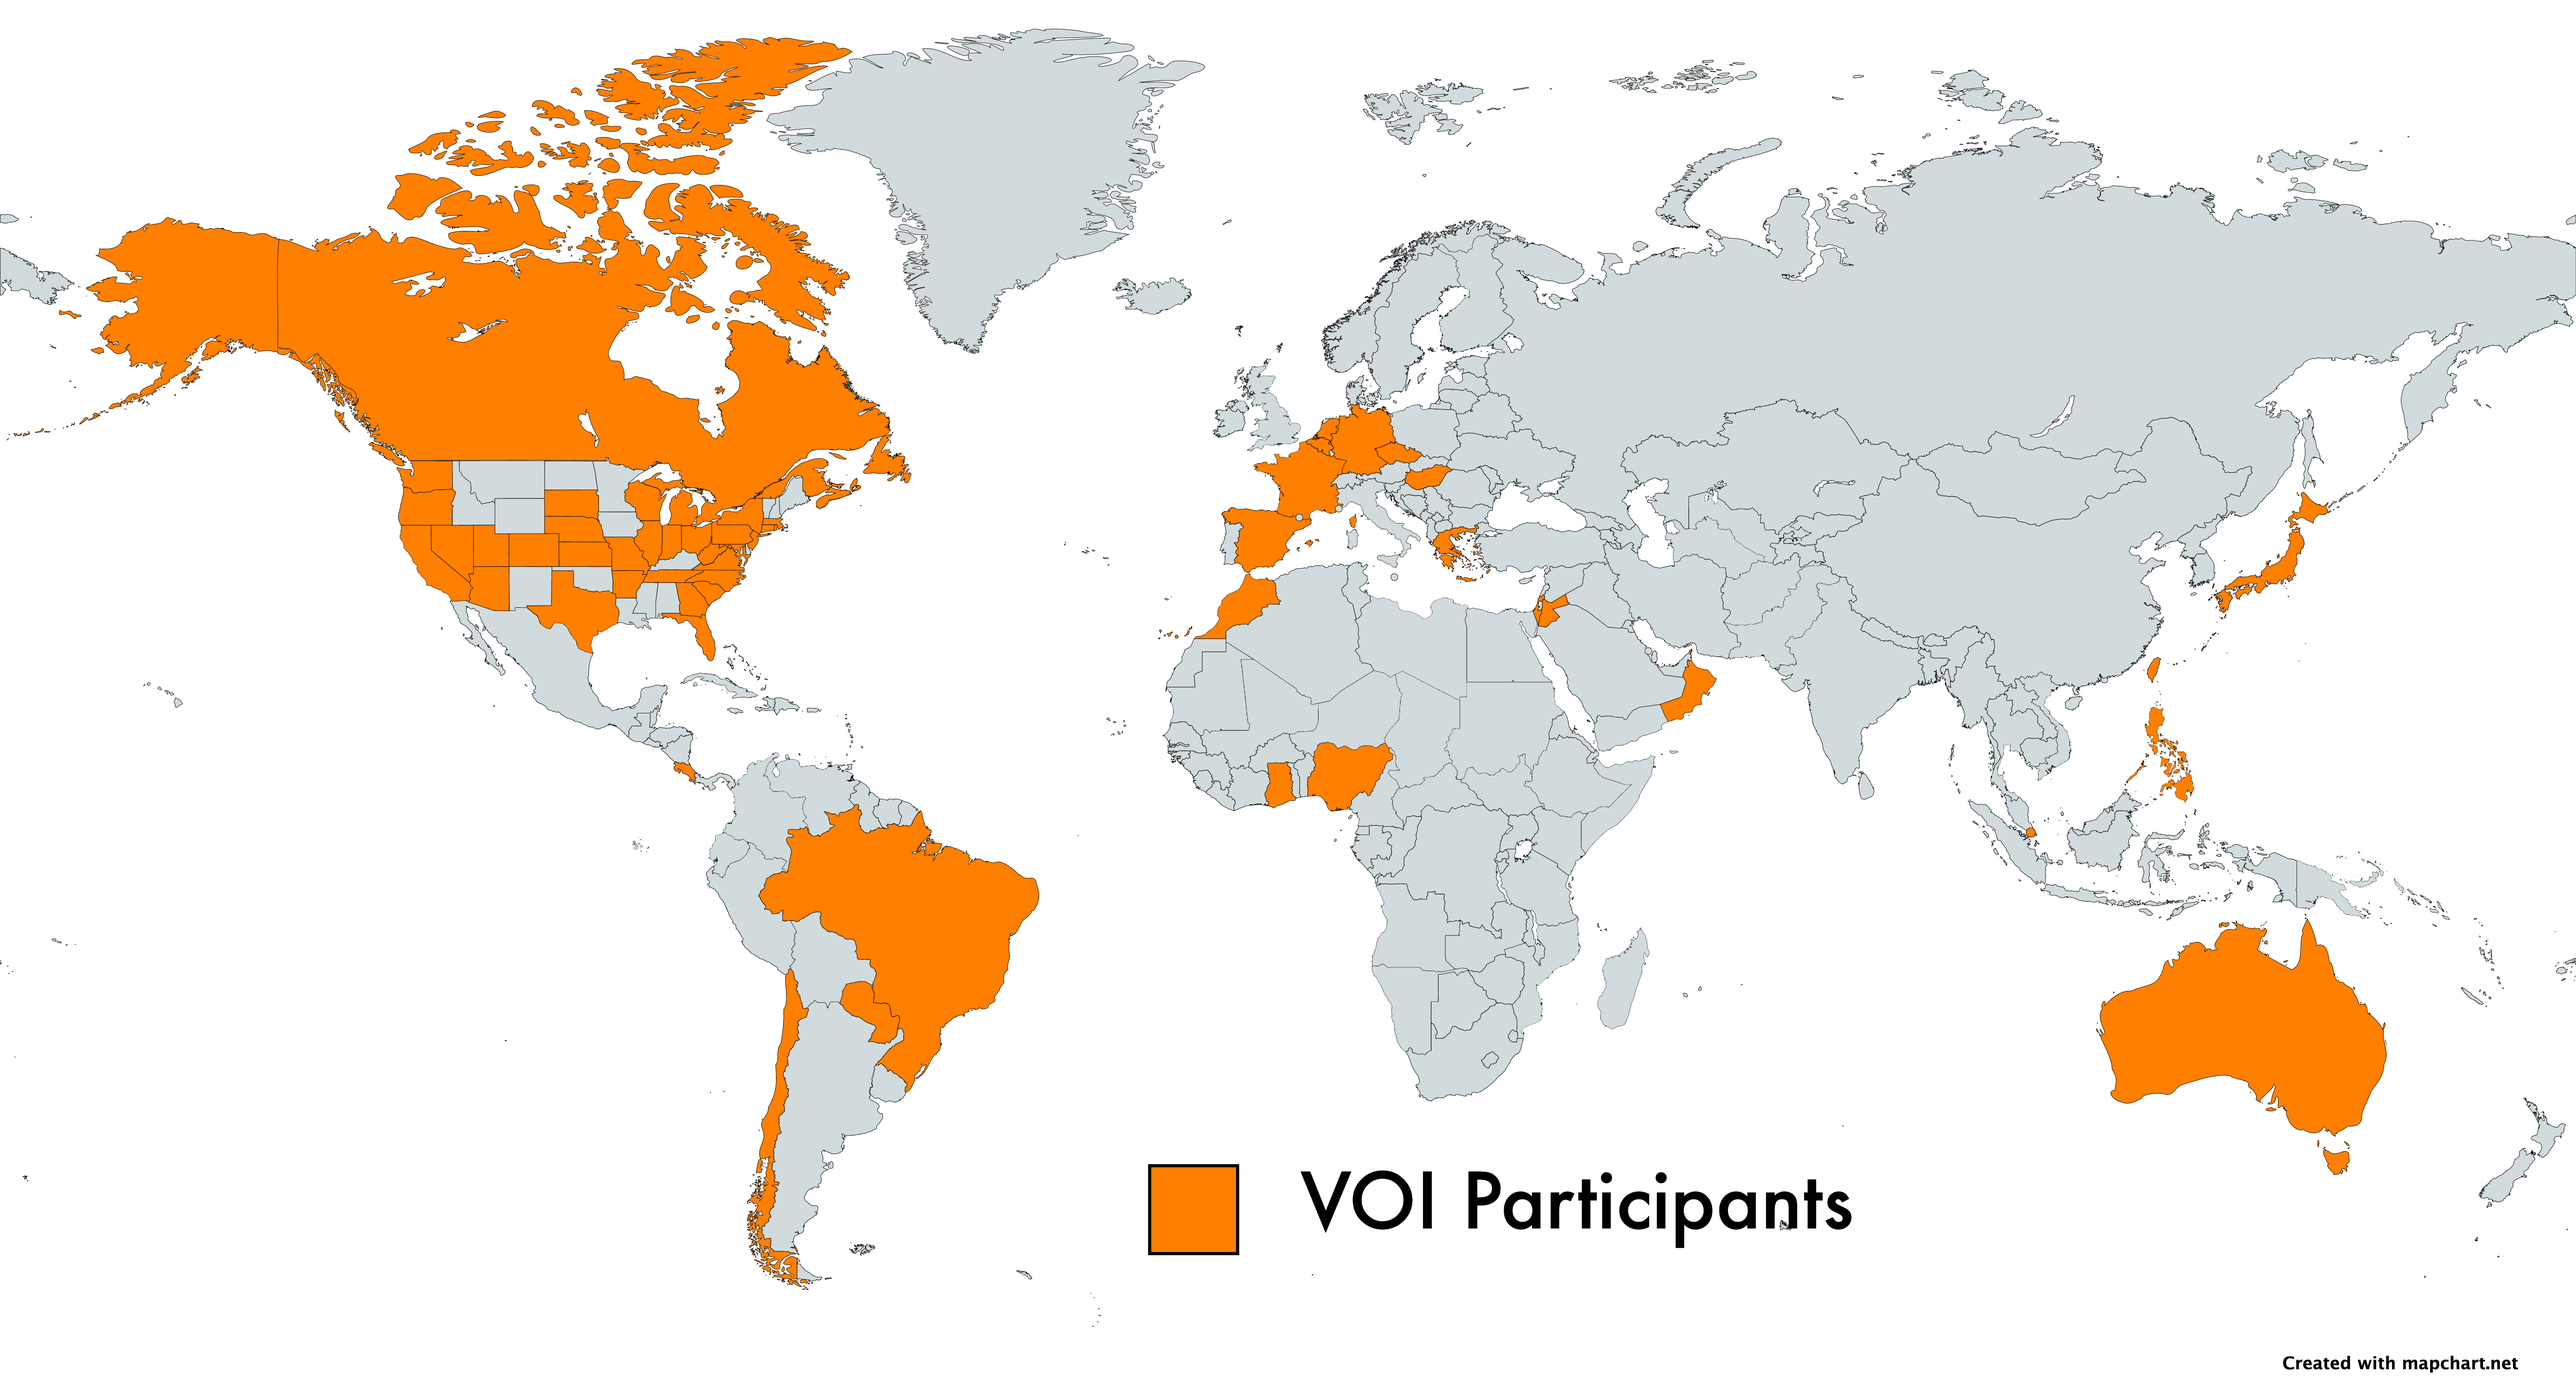
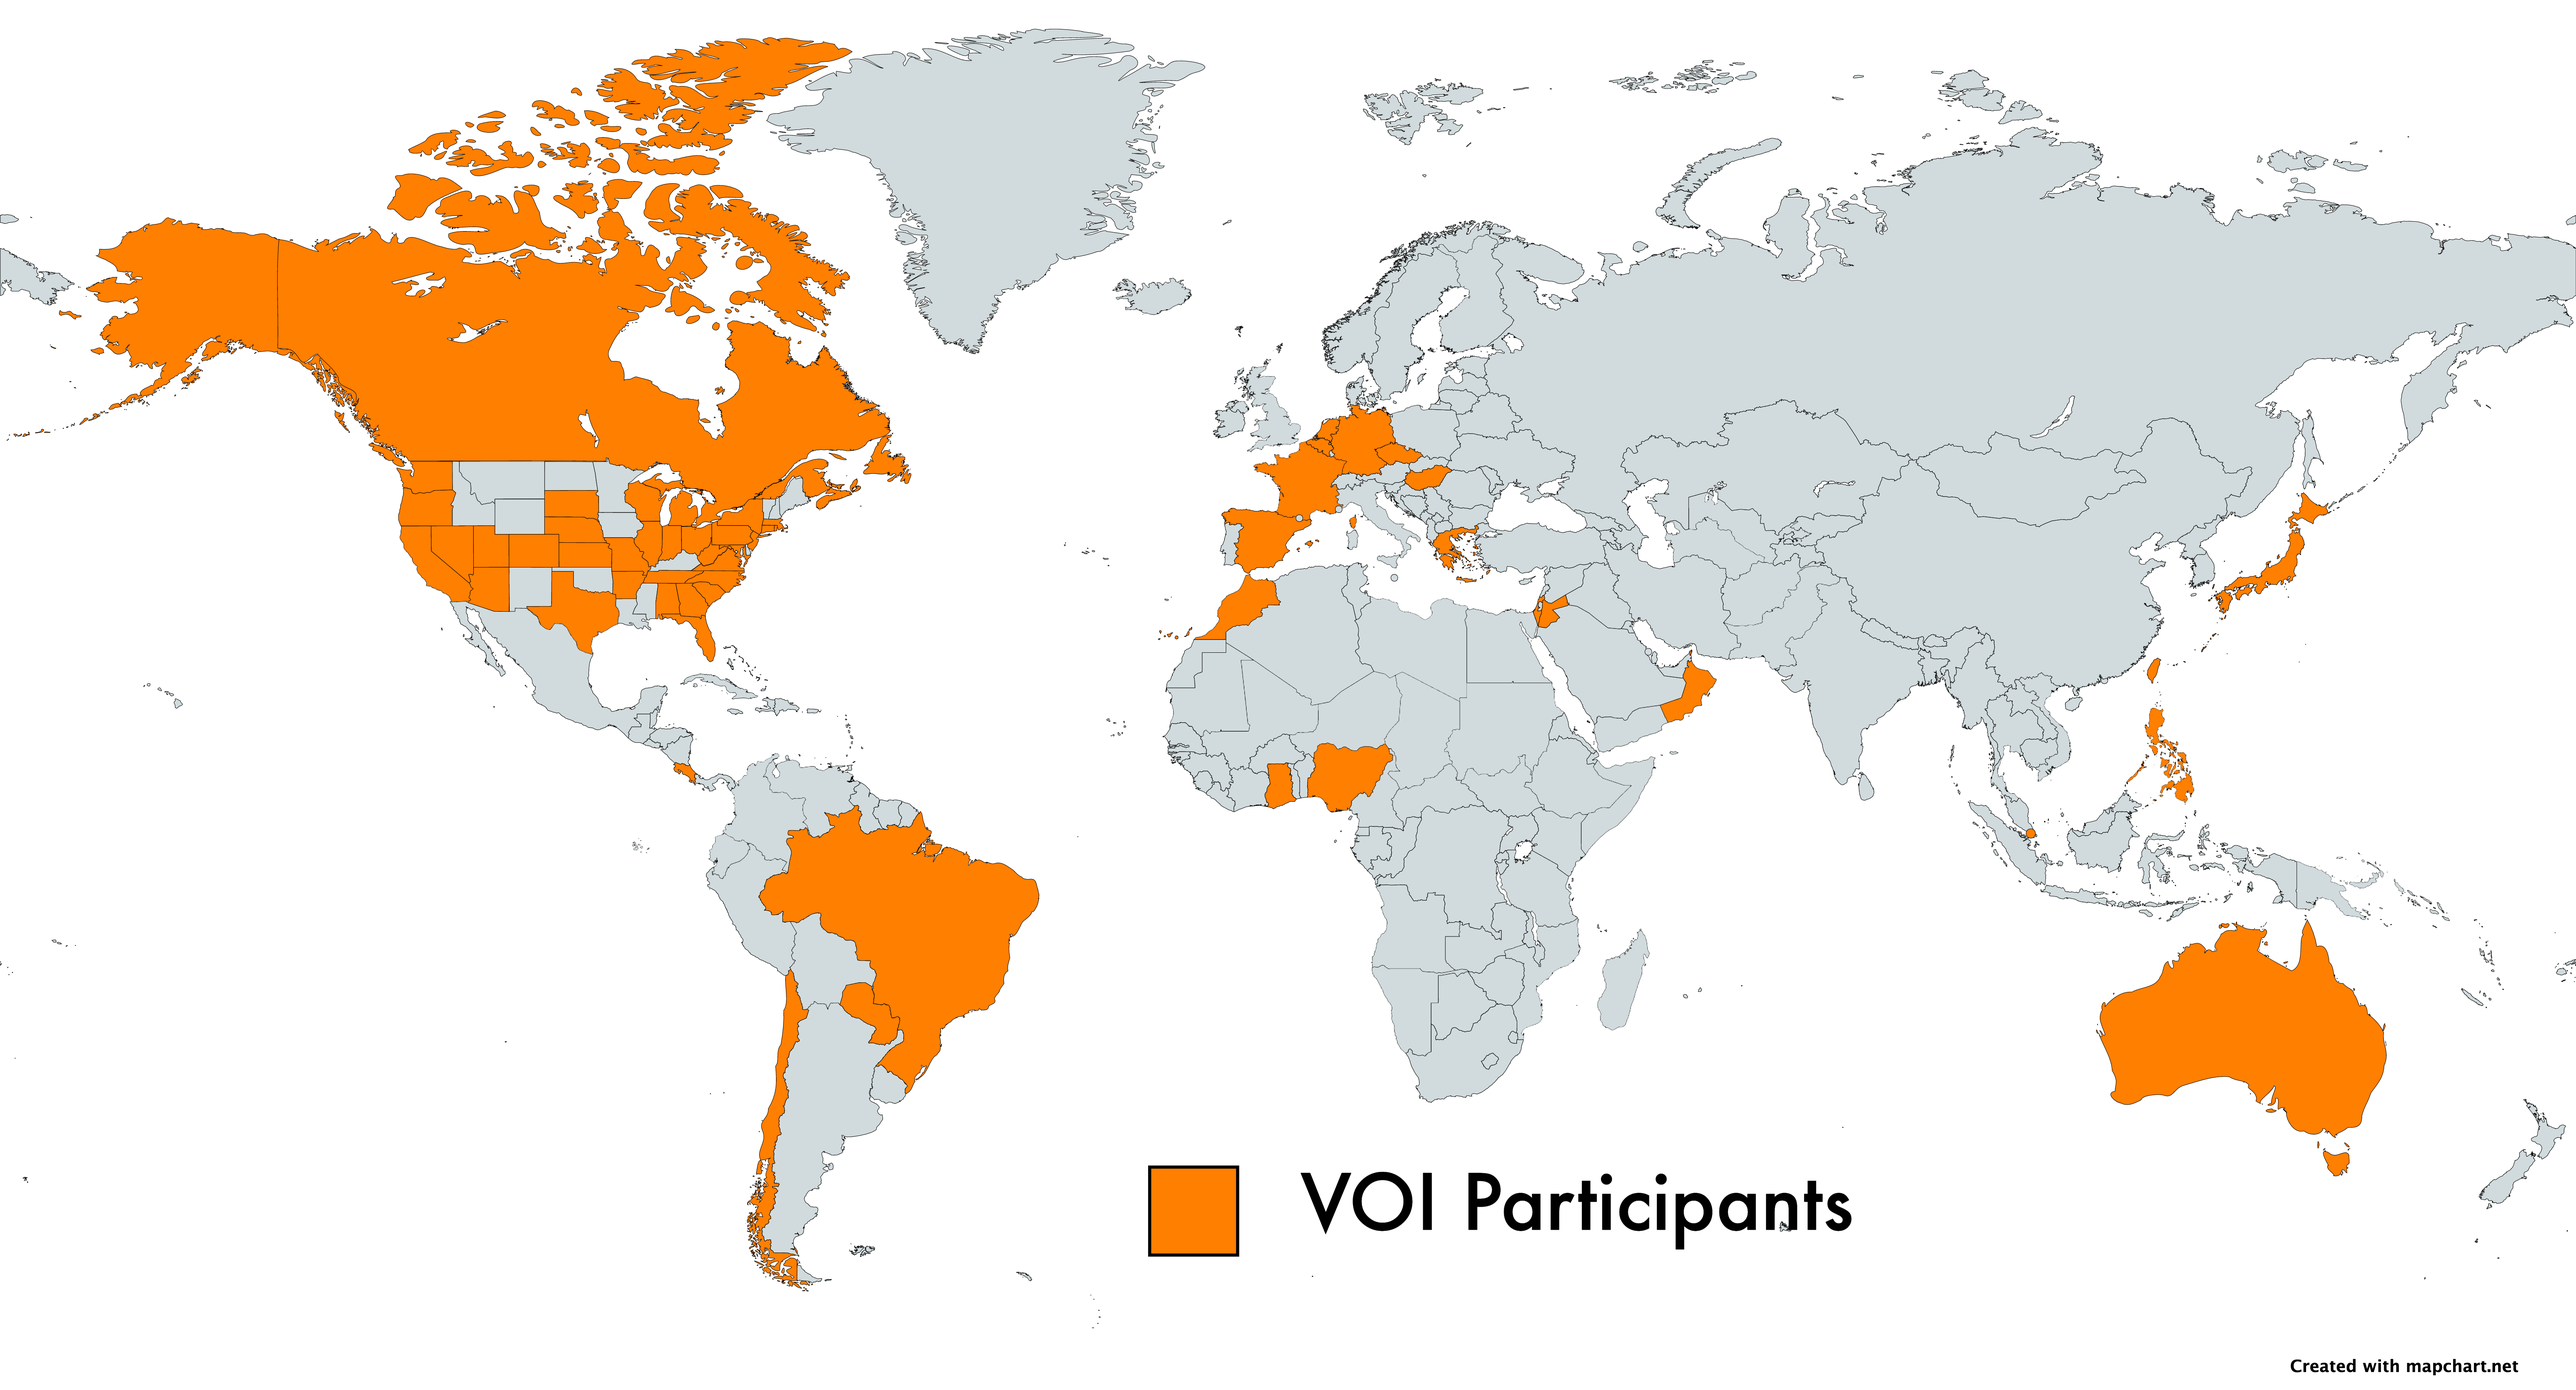
updated new team

diff --git a/VOIvirtualpits.html b/VOIvirtualpits.html
@@ -168,7 +168,7 @@ layout: default
 
 							<tr>
 								<td> <a href="">Ultimate Flopping Caterpillars</a> <br> <a href=""> Intro</a> </td>
-								<td> <a href="">Coming Soon</a> <br> <a href=""> Intro</a> </td>
+								<td> <a href="">Mystery Machine</a> <br> <a href=""> Intro</a> </td>
 								<td> <a href="">Coming Soon</a> <br> <a href=""> Intro</a> </td>
 								<td> <a href="">Coming Soon</a> <br> <a href=""> Intro</a> </td>
 								<td> <a href="">Coming Soon</a> <br> <a href=""> Intro</a> </td>

diff --git a/_posts/2021-05-04-meet-the-VOI2021-teams.md b/_posts/2021-05-04-meet-the-VOI2021-teams.md
@@ -22,6 +22,6 @@ tr:nth-child(even) {
   background-color: #dddddd;
 }
 </style>
-<table><tr style="background-color: yellow;"><td>Team No.</td><td>Team Name</td><td>Region</td></tr><tr><td>1</td><td>MbareteBot</td><td>Paraguay </td></tr><tr><td>2</td><td>A'ROR'N Bots</td><td>Nebraska </td></tr><tr><td>3</td><td>The Moment Makers</td><td>Texas</td></tr><tr><td>4</td><td>Invictus LEGO</td><td>Spain</td></tr><tr><td>5</td><td>Howl Bout It</td><td>Ohio</td></tr><tr><td>6</td><td>Snackerbots</td><td>Michigan</td></tr><tr><td>7</td><td>FIRST FUJISAN</td><td>Japan</td></tr><tr><td>8</td><td>Wild Cards </td><td>South Florida</td></tr><tr><td>9</td><td>Gucci Einsteins</td><td>West Florida</td></tr><tr><td>10</td><td>The Inventors</td><td>Greece</td></tr><tr><td>11</td><td>Fantastic Four</td><td>South Dakota</td></tr><tr><td>12</td><td>Planet Robotics</td><td>Rhode Island</td></tr><tr><td>13</td><td>No Limits</td><td>France</td></tr><tr><td>14</td><td>Sharon Tiger Techs Team Orange</td><td>Pennsylvania</td></tr><tr><td>15</td><td>HobbyRobot</td><td>Czech Republic</td></tr><tr><td>16</td><td>Part 25994</td><td>Indiana</td></tr><tr><td>17</td><td>The Five Elements</td><td>Ohio</td></tr><tr><td>18</td><td>Inventika Sensor ON</td><td>Romania</td></tr><tr><td>19</td><td>Projectia</td><td>South Florida</td></tr><tr><td>20</td><td>Some Assembly Required</td><td>Central Valley California</td></tr><tr><td>21</td><td>VeniVidiVici</td><td>Hungary</td></tr><tr><td>22</td><td>Exit 6 Robotics</td><td>New Jersey</td></tr><tr><td>23</td><td>Banana and Co</td><td>Singapore</td></tr><tr><td>24</td><td>Second Wind</td><td>Taiwan</td></tr><tr><td>25</td><td>ComoFun</td><td>Southern California</td></tr><tr><td>26</td><td>Power Pandas</td><td>Northern California</td></tr><tr><td>27</td><td>The Jnr Saints</td><td>Australia</td></tr><tr><td>28</td><td>Sharon Tiger Techs Team Black </td><td>Pennsylvania</td></tr><tr><td>29</td><td>ACDCEG</td><td>Brazil</td></tr><tr><td>30</td><td>TechBlaze</td><td>Texas</td></tr><tr><td>31</td><td>BBIBotsS</td><td>Germany</td></tr><tr><td>32</td><td>The Saber Masters</td><td>Kansas Citynessee</td></tr><tr><td>33</td><td>Kryptonite</td><td>Jordan</td></tr><tr><td>34</td><td>TigerBots</td><td>Georgia</td></tr><tr><td>35</td><td>Escapists</td><td>Connecticut</td></tr><tr><td>36</td><td>Golden Flares</td><td>New York</td></tr><tr><td>37</td><td>MOR</td><td>Oman</td></tr><tr><td>38</td><td>Titans LJ Planalto</td><td>Brazil</td></tr><tr><td>39</td><td>Rocket Robotics</td><td>South Carolina</td></tr><tr><td>40</td><td>Cryptic Cookies Bits & Bots</td><td>Washington</td></tr><tr><td>41</td><td>The Tender Defenders</td><td>West Virginia</td></tr><tr><td>42</td><td>Minestein</td><td>Philippines</td></tr><tr><td>43</td><td>Tech Tigers</td><td>Massachusetts</td></tr><tr><td>44</td><td>Blue Bears on Stairs</td><td>Utah</td></tr><tr><td>45</td><td>Brainy Yaks</td><td>North Carolina</td></tr><tr><td>46</td><td>Laurel Legobots</td><td>Maryland</td></tr><tr><td>47</td><td>Curiobots</td><td>Virginia</td></tr><tr><td>48</td><td>PEDEX</td><td>Arizona</td></tr><tr><td>49</td><td>Emerald Bots</td><td>Washington</td></tr><tr><td>50</td><td>Fierce Foxes</td><td>Virginia</td></tr><tr><td>51</td><td>Operation Eclipse</td><td>Colorado</td></tr><tr><td>52</td><td>Move Your Feet</td><td>The Netherlands</td></tr><tr><td>53</td><td>Proud Pandas</td><td>Kansas City</td></tr><tr><td>54</td><td>Robo Raptors</td><td>New Jersey</td></tr><tr><td>55</td><td>SAP Bricks4kids</td><td>Germany</td></tr><tr><td>56</td><td>Cyberwallon</td><td>France</td></tr><tr><td>57</td><td>Techies</td><td>North Carolina</td></tr><tr><td>58</td><td>Gilmore Gigabytes</td><td>Australia</td></tr><tr><td>59</td><td>Iron Robots</td><td>Washington</td></tr><tr><td>60</td><td>Dynamic Dragons</td><td>Illinois</td></tr><tr><td>61</td><td>Watt Botts</td><td>Virginia</td></tr><tr><td>62</td><td>Laser Brick Builders</td><td>Wisconsin</td></tr><tr><td>63</td><td>Positive Protons</td><td>Ohio</td></tr><tr><td>64</td><td>The Brickbeards</td><td>Nevada</td></tr><tr><td>65</td><td>Ultimate Flopping Caterpillars</td><td>Oregon</td></tr></table>
+<table><tr style="background-color: yellow;"><td>Team No.</td><td>Team Name</td><td>Region</td></tr><tr><td>1</td><td>MbareteBot</td><td>Paraguay </td></tr><tr><td>2</td><td>A'ROR'N Bots</td><td>Nebraska </td></tr><tr><td>3</td><td>The Moment Makers</td><td>Texas</td></tr><tr><td>4</td><td>Invictus LEGO</td><td>Spain</td></tr><tr><td>5</td><td>Howl Bout It</td><td>Ohio</td></tr><tr><td>6</td><td>Snackerbots</td><td>Michigan</td></tr><tr><td>7</td><td>FIRST FUJISAN</td><td>Japan</td></tr><tr><td>8</td><td>Wild Cards </td><td>South Florida</td></tr><tr><td>9</td><td>Gucci Einsteins</td><td>West Florida</td></tr><tr><td>10</td><td>The Inventors</td><td>Greece</td></tr><tr><td>11</td><td>Fantastic Four</td><td>South Dakota</td></tr><tr><td>12</td><td>Planet Robotics</td><td>Rhode Island</td></tr><tr><td>13</td><td>No Limits</td><td>France</td></tr><tr><td>14</td><td>Sharon Tiger Techs Team Orange</td><td>Pennsylvania</td></tr><tr><td>15</td><td>HobbyRobot</td><td>Czech Republic</td></tr><tr><td>16</td><td>Part 25994</td><td>Indiana</td></tr><tr><td>17</td><td>The Five Elements</td><td>Ohio</td></tr><tr><td>18</td><td>Inventika Sensor ON</td><td>Romania</td></tr><tr><td>19</td><td>Projectia</td><td>South Florida</td></tr><tr><td>20</td><td>Some Assembly Required</td><td>Central Valley California</td></tr><tr><td>21</td><td>VeniVidiVici</td><td>Hungary</td></tr><tr><td>22</td><td>Exit 6 Robotics</td><td>New Jersey</td></tr><tr><td>23</td><td>Banana and Co</td><td>Singapore</td></tr><tr><td>24</td><td>Second Wind</td><td>Taiwan</td></tr><tr><td>25</td><td>ComoFun</td><td>Southern California</td></tr><tr><td>26</td><td>Power Pandas</td><td>Northern California</td></tr><tr><td>27</td><td>The Jnr Saints</td><td>Australia</td></tr><tr><td>28</td><td>Sharon Tiger Techs Team Black </td><td>Pennsylvania</td></tr><tr><td>29</td><td>ACDCEG</td><td>Brazil</td></tr><tr><td>30</td><td>TechBlaze</td><td>Texas</td></tr><tr><td>31</td><td>BBIBotsS</td><td>Germany</td></tr><tr><td>32</td><td>The Saber Masters</td><td>Kansas Citynessee</td></tr><tr><td>33</td><td>Kryptonite</td><td>Jordan</td></tr><tr><td>34</td><td>TigerBots</td><td>Georgia</td></tr><tr><td>35</td><td>Escapists</td><td>Connecticut</td></tr><tr><td>36</td><td>Golden Flares</td><td>New York</td></tr><tr><td>37</td><td>MOR</td><td>Oman</td></tr><tr><td>38</td><td>Titans LJ Planalto</td><td>Brazil</td></tr><tr><td>39</td><td>Rocket Robotics</td><td>South Carolina</td></tr><tr><td>40</td><td>Cryptic Cookies Bits & Bots</td><td>Washington</td></tr><tr><td>41</td><td>The Tender Defenders</td><td>West Virginia</td></tr><tr><td>42</td><td>Minestein</td><td>Philippines</td></tr><tr><td>43</td><td>Tech Tigers</td><td>Massachusetts</td></tr><tr><td>44</td><td>Blue Bears on Stairs</td><td>Utah</td></tr><tr><td>45</td><td>Brainy Yaks</td><td>North Carolina</td></tr><tr><td>46</td><td>Laurel Legobots</td><td>Maryland</td></tr><tr><td>47</td><td>Curiobots</td><td>Virginia</td></tr><tr><td>48</td><td>PEDEX</td><td>Arizona</td></tr><tr><td>49</td><td>Emerald Bots</td><td>Washington</td></tr><tr><td>50</td><td>Fierce Foxes</td><td>Virginia</td></tr><tr><td>51</td><td>Operation Eclipse</td><td>Colorado</td></tr><tr><td>52</td><td>Move Your Feet</td><td>The Netherlands</td></tr><tr><td>53</td><td>Proud Pandas</td><td>Kansas City</td></tr><tr><td>54</td><td>Robo Raptors</td><td>New Jersey</td></tr><tr><td>55</td><td>SAP Bricks4kids</td><td>Germany</td></tr><tr><td>56</td><td>Cyberwallon</td><td>France</td></tr><tr><td>57</td><td>Techies</td><td>North Carolina</td></tr><tr><td>58</td><td>Gilmore Gigabytes</td><td>Australia</td></tr><tr><td>59</td><td>Iron Robots</td><td>Washington</td></tr><tr><td>60</td><td>Dynamic Dragons</td><td>Illinois</td></tr><tr><td>61</td><td>Watt Botts</td><td>Virginia</td></tr><tr><td>62</td><td>Laser Brick Builders</td><td>Wisconsin</td></tr><tr><td>63</td><td>Positive Protons</td><td>Ohio</td></tr><tr><td>64</td><td>The Brickbeards</td><td>Nevada</td></tr><tr><td>65</td><td>Ultimate Flopping Caterpillars</td><td>Oregon</td></tr><tr><td>66</td><td>Mystery Machine</td><td>Alabama</td></tr></table>
 
 </p>
